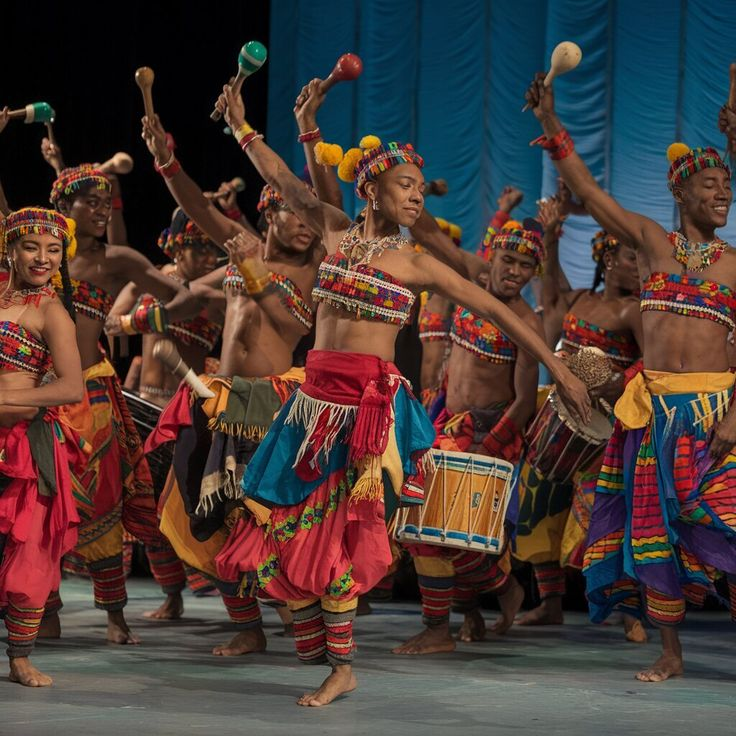
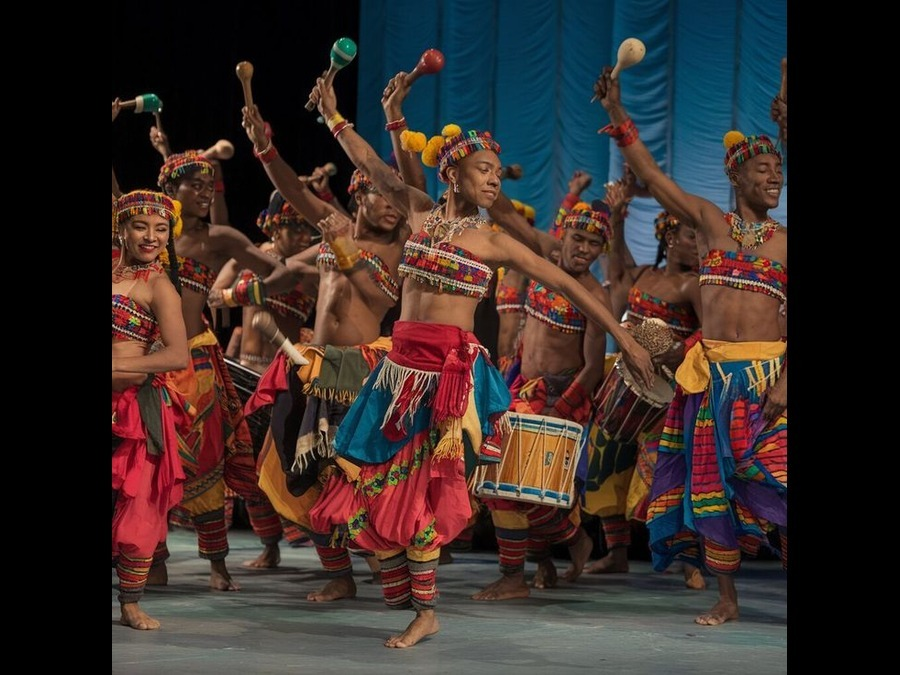
fix regrading images size

diff --git a/lib/data.ts b/lib/data.ts
@@ -469,7 +469,28 @@ export const ETHIOPIAN_CULINARY: CulinaryItem[] = [
     description: "Ritual preparation of coffee from green beans — roasted, ground, and brewed in a jebena (clay pot) over charcoal.",
     ingredients: "Green coffee beans (heirloom varieties), water, optional incense (frankincense/myhrr)",
     culturalNote: "Birthplace of coffee. The ceremony takes 1–2 hours with three rounds (abol, tona, baraka) — a social ritual of friendship and respect.",
-    image: "/f&b/bunna.jpg",
+    image: "/f&b/coffee.jpg",
     category: "Beverage & Ritual",
-  }
+  },
+  {
+    id: "Tej",
+    name: "Tej",
+    nameAmharic: "ጠጅ",
+    description: "A traditional Ethiopian honey wine, often served during celebrations and special occasions.",
+    ingredients: "Honey, water, yeast, optional spices",
+    culturalNote: "A symbol of hospitality and celebration. Tej is often shared among friends and family during festive gatherings.",
+    image: "/f&b/tela.jpg",
+    category: "Beverage & Ritual",
+  },
+  {
+    id: "tela",
+    name: "Tela",
+    nameAmharic: "ጠላ",
+    description: "A traditional Ethiopian tea, often served with milk and sugar.",
+    ingredients: "Tea leaves, water, milk, sugar",
+    culturalNote: "A symbol of hospitality and warmth. Tela is often shared among friends and family during casual gatherings.",
+    image: "/f&b/tej.jpg",
+    category: "Beverage & Ritual",
+  },
 ];
+

diff --git a/components/Footer.tsx b/components/Footer.tsx
@@ -77,10 +77,10 @@ export default function Footer() {
           </ul>
           <div className="mt-5 flex gap-3">
             {[
-              { s: "𝕏", href: "https://twitter.com/", label: "X (Twitter)" },
-              { s: "f", href: "https://facebook.com/", label: "Facebook" },
-              { s: "in", href: "https://linkedin.com/", label: "LinkedIn" },
-              { s: "▶", href: "https://youtube.com/", label: "YouTube" },
+              { s: "in", href: "https://www.instagram.com/ethcan_events/", label: "Instagram" },
+              { s: "f", href: "https://facebook.com/profile.php?id=61592459900451", label: "Facebook" },
+              { s: "t", href: "https://www.tiktok.com/@ethcan_events", label: "TikTok" },
+              // { s: "▶", href: "https://youtube.com/", label: "YouTube" },
             ].map(({ s, href, label }) => (
               <a
                 key={s}

diff --git a/components/PanAfricaCultures.tsx b/components/PanAfricaCultures.tsx
@@ -6,7 +6,7 @@ import Image from "next/image";
 import { PANAFRICA_CULTURES } from "@/lib/data";
 import Reveal from "@/components/motion/Reveal";
 
-const TRANSITION_DURATION = 0.3;
+const TRANSITION_DURATION = 0.5;
 const AUTO_PLAY_INTERVAL = 5000;
 
 export default function PanAfricaCultures() {
